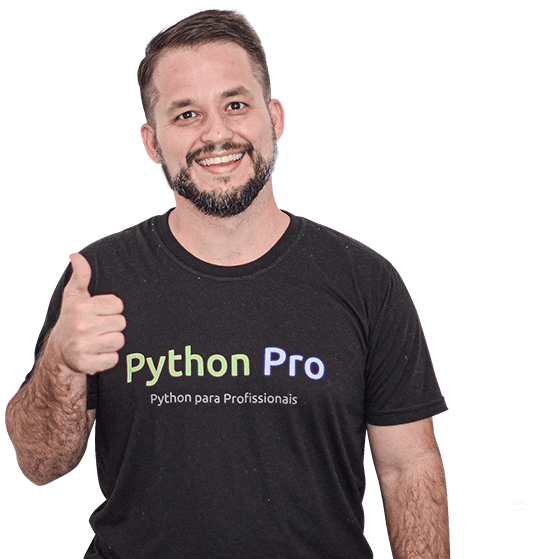
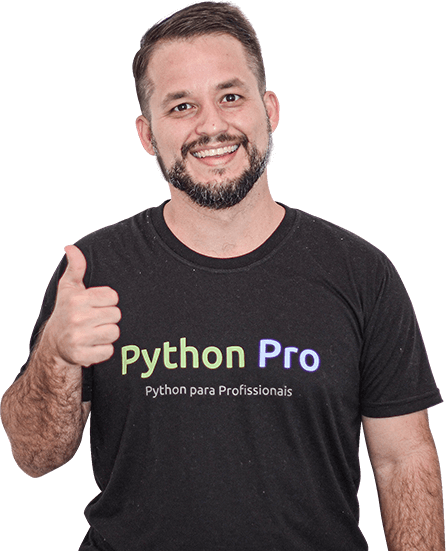
improving TPPs landing page. Closes #3058

diff --git a/pythonpro/pages/templates/pages/tpp_webiorico_landing_page.html b/pythonpro/pages/templates/pages/tpp_webiorico_landing_page.html
@@ -13,32 +13,38 @@
                     <h1 class='font-weight-bold'>
                         <u>RUMO A PRIMEIRA VAGA!</u>
                     </h1>
-                    
+
                     <h3 class='font-weight-bold mb-4'>
                         O caminho mais rápido para você conquistar sua primeira oportunidade
                         como programador e iniciar uma carreira à prova de crise.
                     </h3>
-                    
-                    <h4 class='' id="topo">
-                        Workshop Online e Gratuito.
-                    </h4>                    
-
-                    <h4 class=''>
-                        <b class='text-uppercase'>Dia 07/10 às 21h, Horário de Brasília</b>
-                    </h4>                    
                 </div>
             </div>
             
             <div class="row">
-                <div class='offset-md-2 col-md-8 col-sm-12 text-light'>
-                    
-                    <span class=' font-weight-bold' style='font-size: 16pt'>Preencha o formulário:</span>
+                <div class='col-md-6 col-sm-12'>
+                    <img class="photo-renzo" src="{% static 'img/spp/footer/renzo-nuccitelli-footer-desktop.png' %}">
+                </div>
+                
+                <div class='col-md-6 col-sm-12 text-light main-form'>
+                    <h4 class='' id="topo">
+                        Workshop Online e Gratuito.
+                    </h4>                    
+
+                    <h4 class='mb-5'>
+                        <b class='text-uppercase'>Dia 14/10 às 21h, Horário de Brasília</b>
+                    </h4>                    
+
+                    <span class='' style='font-size: 16pt'>Preencha o formulário:</span>
                     <form method="POST" class='mb-5 text-center'>
                         {% csrf_token %}
                         {% bootstrap_form form %}
 
                         <button type='submit' class='btn btn-warning text-center cta'>
-                            <b>CONFIRMAR MINHA INSCRIÇÃO!</b>
+                            <b>
+                                EU QUERO A MINHA PRIMEIRA VAGA! 
+                                <span class="ec ec-rocket"></span>
+                            </b>
                         </button>
                     </form>
                 </div>
@@ -57,19 +63,19 @@
             </div>
             
             <div class="row">
-                <div class="col text-center">
+                <div class="col-sm-12 col-md-4 text-center">
                     <span class="ec ec-bulb"></span>
                     <p><h3 class='font-weight-bold'>Princípio de Pareto</h3></p>
                     <p>Faça apenas o mínimo, necessário e suficiente</p>
                 </div>
                 
-                <div class="col text-center">
+                <div class="col-sm-12 col-md-4 text-center">
                     <span class="ec ec-muscle"></span>
                     <p><h3 class='font-weight-bold'>Testar o Mercado</h3></p>
                     <p>Se candidate para todas as vagas em aberto</p>
                 </div>
                 
-                <div class="col text-center">
+                <div class="col-sm-12 col-md-4 text-center">
                     <span class="ec ec-money-mouth-face"></span>
                     <p><h3 class='font-weight-bold'>Vender p/ não ser Vendido</h3></p>
                     <p>Aprenda como se vender nos processos seletivos</p>
@@ -81,6 +87,28 @@
 {% endblock content %}
 
 {% block footer %}
+    <div class='bg-black'>
+        <div class="container">
+            <div class="row">
+                <div class='offset-md-2 col-md-8 col-sm-12 text-light mt-5'>
+                    
+                    <span class=' font-weight-bold' style='font-size: 16pt'>Inscreva-se Grátis:</span>
+                    <form method="POST" class='mb-5 text-center'>
+                        {% csrf_token %}
+                        {% bootstrap_form form %}
+
+                        <button type='submit' class='btn btn-warning text-center cta'>
+                            <b>
+                                EU QUERO A MINHA PRIMEIRA VAGA! 
+                                <span class="ec ec-rocket"></span>
+                            </b>
+                        </button>
+                    </form>
+                </div>
+            </div>
+        </div>
+    </div>
+
     <div class=''>
         <div class="container">
             <div class="row">
@@ -114,15 +142,27 @@
             margin: -20px 0;
         }
 
+        .photo-renzo {
+            margin-top: -80px;
+        }
+
+        .cta {
+            font-size: 15pt !important;
+        }
+
         @media only screen and (min-device-width : 320px) and (max-device-width : 1024px) {
             .hero h1 {
                 font-size: 20pt;
+            }
+            .hero h3 {
+                font-size: 14pt;
+                font-family: 'Gilroy-Regular';
             }
             .hero h4 {
                 font-size: 14pt;
             }
             .cta {
-                font-size: 14pt !important;
+                font-size: 12pt !important;
                 padding: 10px 20px;
             }
             h2 {
@@ -130,6 +170,17 @@
             }
             p {
                 font-size: 12pt;
+            }
+            .photo-renzo {
+                margin-top: -50px;
+                margin-bottom: 20px;
+                width: 300px;
+                display: block;
+                margin-left: auto;
+                margin-right: auto;
+            }
+            .main-form {
+                text-align: center;
             }
         }
     </style>

diff --git a/pythonpro/pages/templates/pages/base.html b/pythonpro/pages/templates/pages/base.html
@@ -17,33 +17,25 @@
                         Olá! Eu me chamo <b>Renzo Nuccitelli</b>. Muito prazer! 
                     </p>
                     <p>
-                        Sou programador há 13 anos, palestrante, consultor, 
+                        Sou programador há 14 anos, palestrante, consultor, 
                         diretor de tecnologia e, principalmente, professor.
                     </p>
                     <p>
-                        Meu sonho sempre foi que as pessoas pudessem construir as mesmas oportunidades que construí...    
+                        <b>Sou Engenheiro de Computação formado pelo ITA.</b> Especialista em Programação Web 
+                        e em teste automáticos. Fui <b>Engenheiro de Qualidade Sênior na Red Hat</b> durante 2 anos.
+                        Também fui <b>Diretor de Tecnologia</b> nas empresas QMagico e Pricez. 
                     </p>
 
                     <p>
-                        Sou Engenheiro de Computação formado pelo ITA. Especialista em programação web.
+                        Sou apaixonado por dar aula!
+                        Fui <b>professor da FATEC São José dos Campos</b> durante 4 anos.
+                        Já palestrei em eventos como PyCon US, Google Developer Bus, 
+                        DevFest, Rupy e Python Brasil.
                     </p>
-
                     <p>
-                        Fui Diretor de Tecnologia na startup de educação QMagico e Pricez. Por lá, estruturei os times de tecnologia e todo o processo de desenvolvimento.
+                        <b>Meu sonho sempre foi que as pessoas pudessem construir as 
+                        mesmas oportunidades que construí...</p>
                     </p>
-
-                    <p>
-                        Sou apaixonado por dar aula! Fui professor da Fatec durante 4 anos, ministrando as matérias de "Orientação a Objetos", "Aplicações para Internet", "Estrutura de Dados" e "Javascript". 
-                    </p>
-                    
-                    <p>
-                        Já palestrei em eventos como Pycon US, Google Developer Bus, DevFest, Rupy e Python Brasil.
-                    </p>
-
-                    <p>
-                        Também sou especialista em teste automáticos. Fui Engenheiro de Qualidade Sênior na Red Hat durante 2 anos.
-                    </p>
-
                 </div>
             </div>
         </div>
